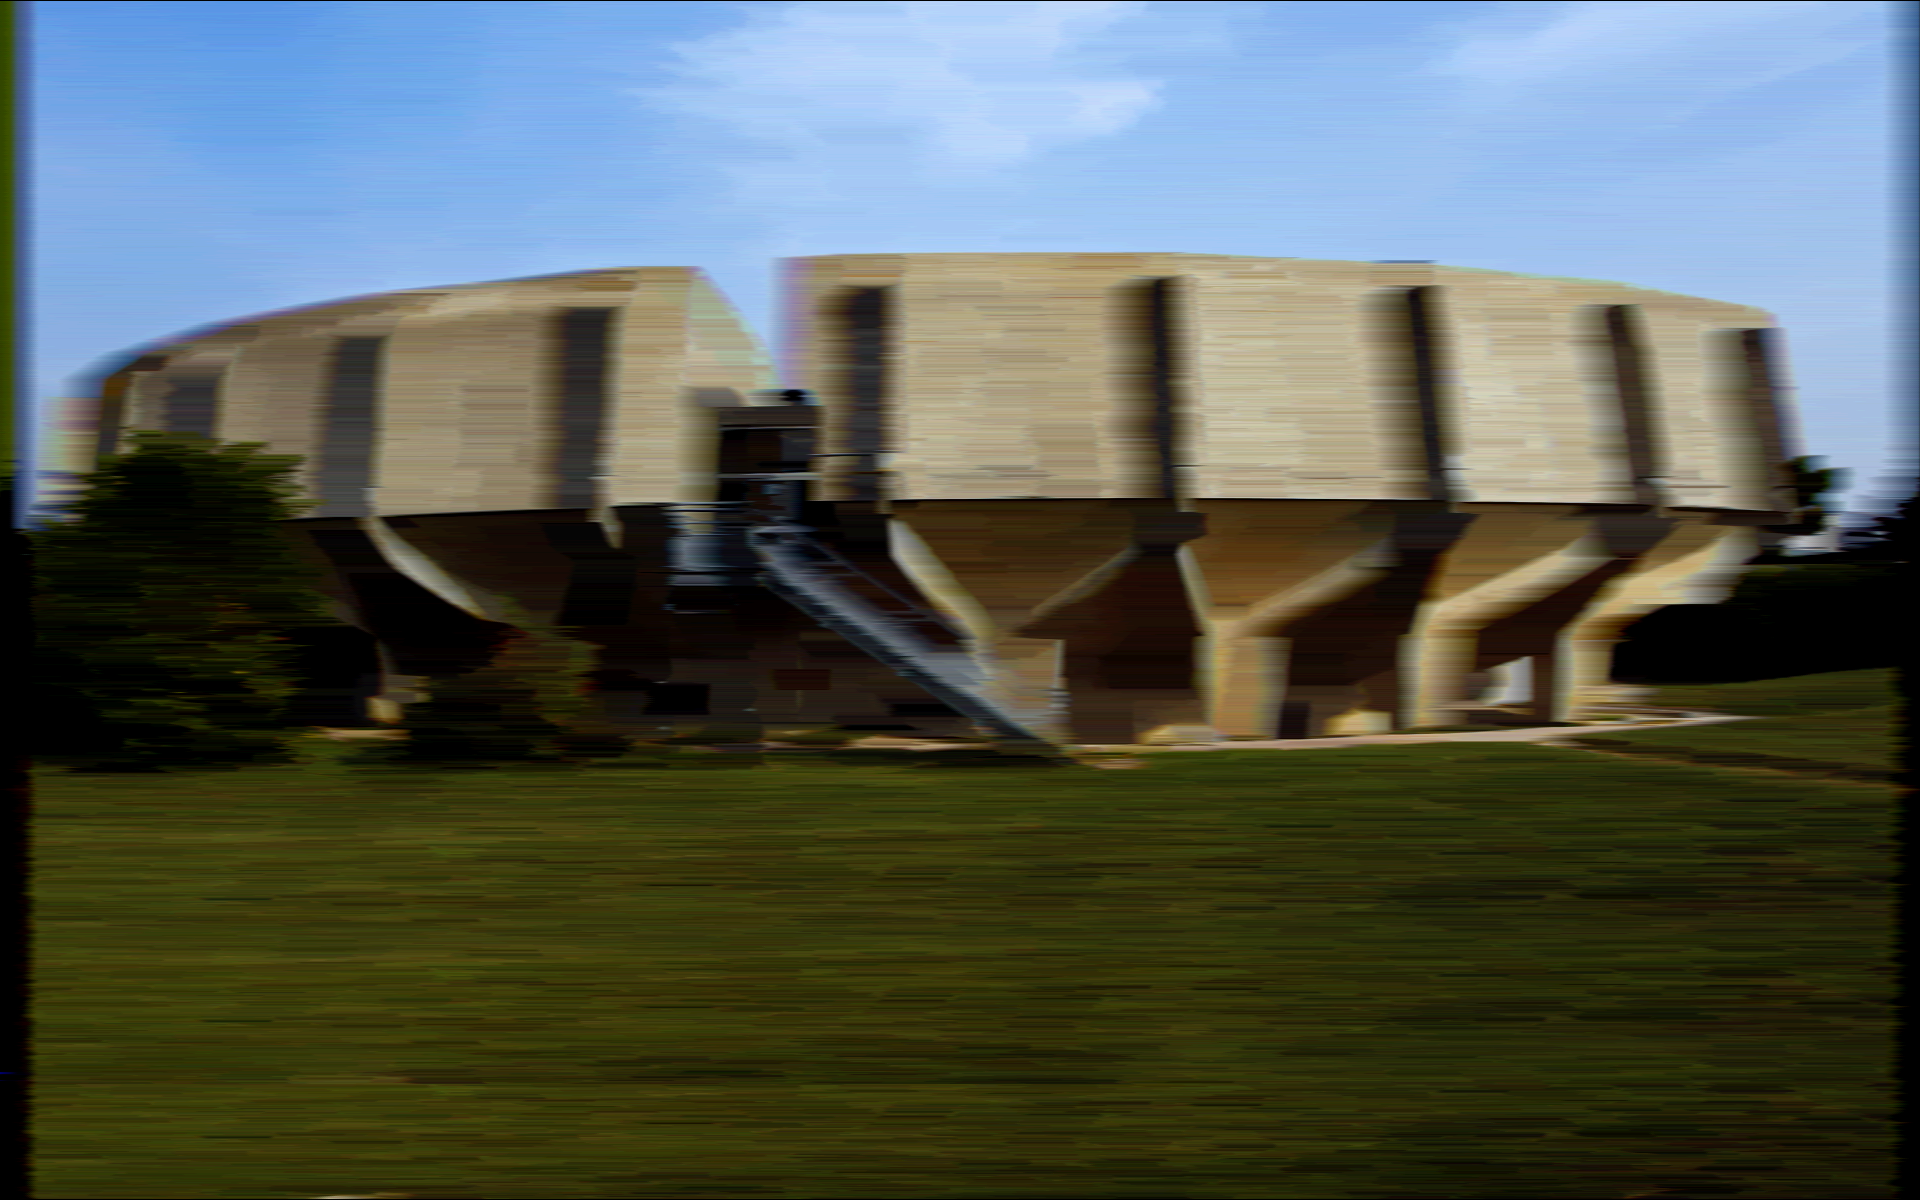
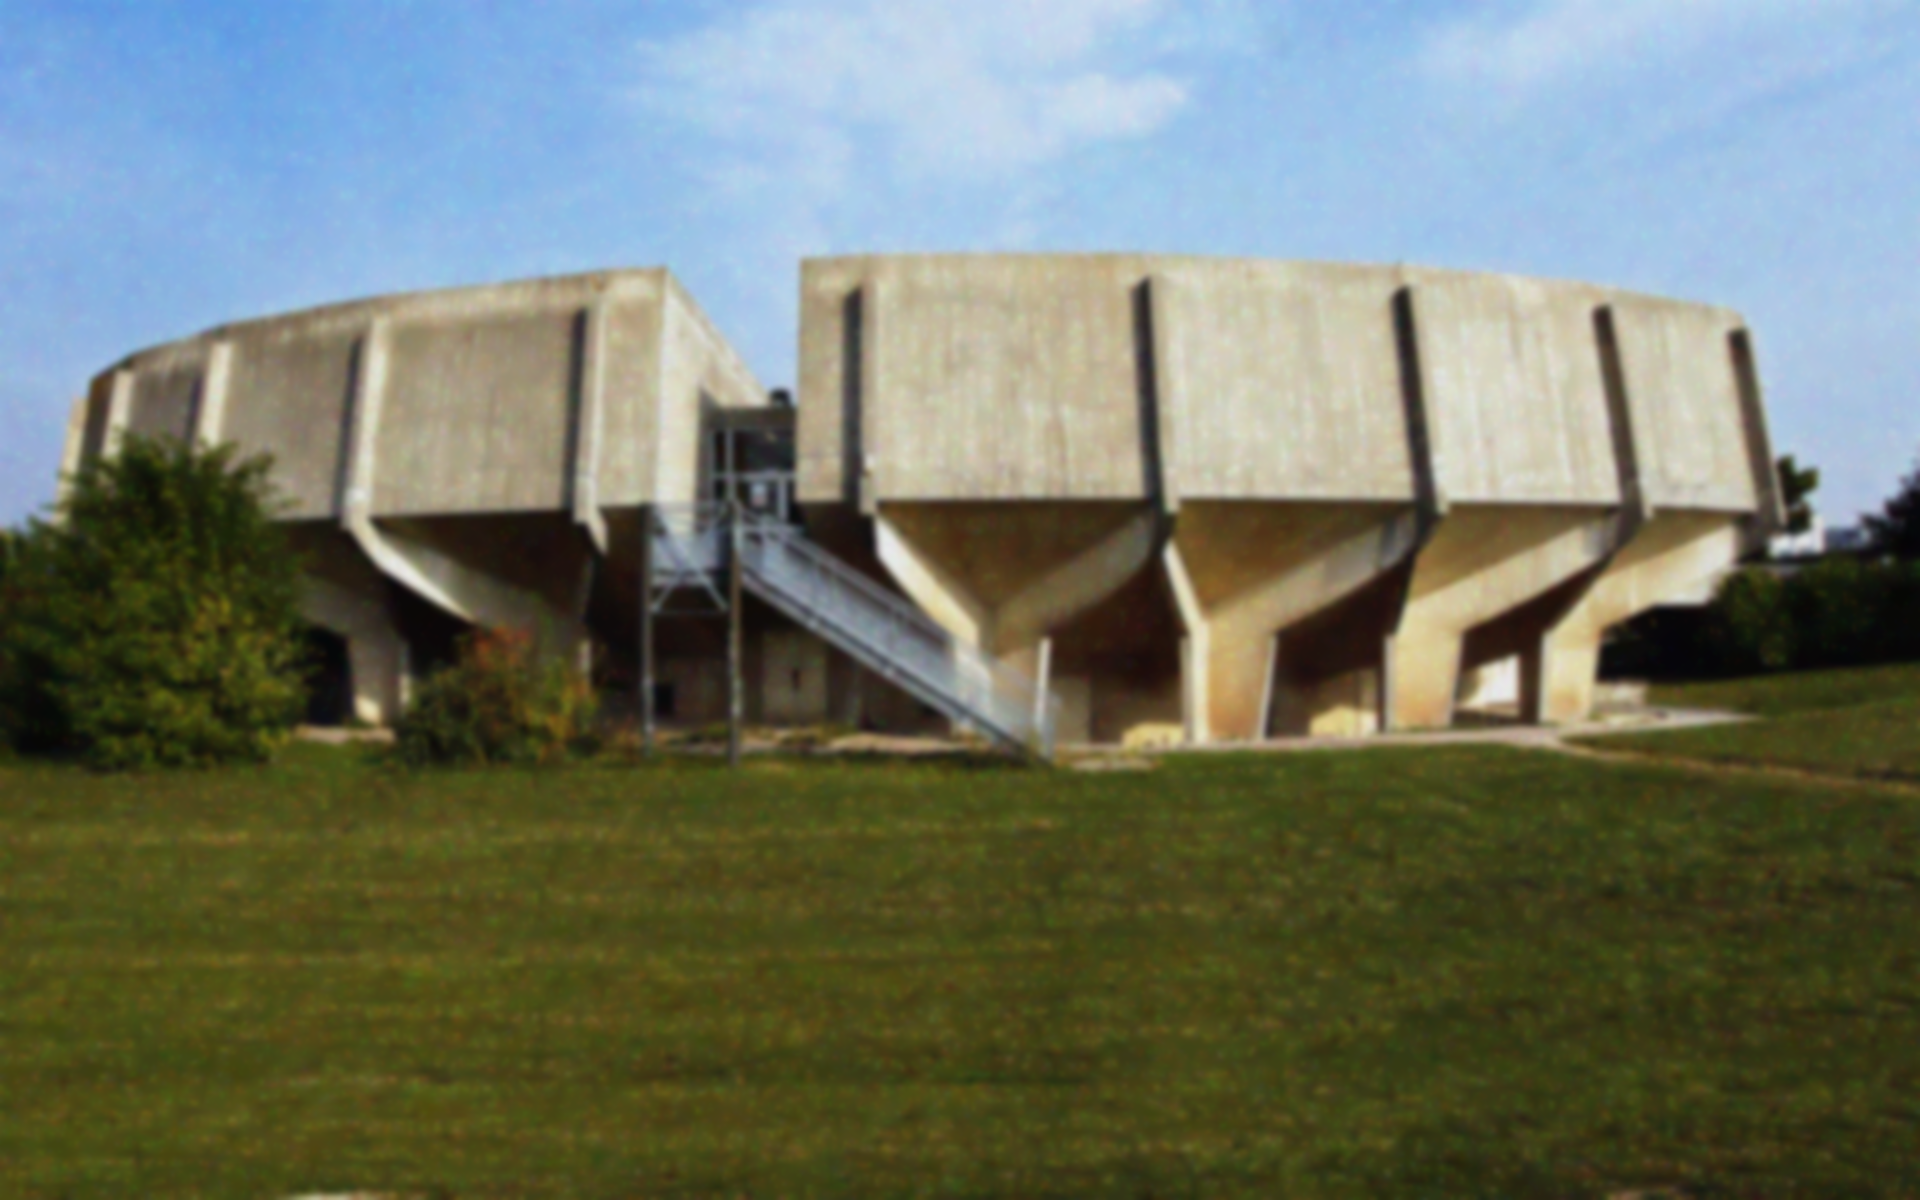
Version finale Kokkos

diff --git a/kokkos/gaussSeidel.cpp b/kokkos/gaussSeidel.cpp
@@ -1,14 +1,7 @@
 #include "gaussSeidel.h"
 
-// #include <opencv2/core/hal/interface.h>
-// #include <opencv2/core/matx.hpp>
-
-inline uchar Clamp(int n) {
-    n = n > 255 ? 255 : n;
-    return n < 0 ? 0 : n;
-}
-
-bool GaussSeidel(ViewMatrixType &img, int rows, int cols) {
+bool GaussSeidel(ViewMatrixType &img, ViewMatrixType &dst, int rows, int cols)
+{
     if (rows == 0 || cols == 0) {
         cout << "[Error]! Input Image Empty!";
         return false;
@@ -27,19 +20,28 @@ bool GaussSeidel(ViewMatrixType &img, int rows, int cols) {
         j = j * 2 + i % 2;
         // Parcours des channels
         for (int c = 0; c < 3; c++) {
-            uchar alpha = 0;
+            unsigned int alpha = 0;
 
-            if (j > 0)
-                alpha += img(i, j - 1, c) * 0.2;  // Ouest
-            alpha += img(i, j, c) * 0.2;          // Centre
-            if (j < cols - 1)
-                alpha += img(i, j + 1, c) * 0.2;  // Est
-            if (i > 0)
-                alpha += img(i, j - 1, c) * 0.2;  // Sud                
-            if (i < rows - 1)
-                alpha += img(i, j - 1, c) * 0.2;  // Nord
+            int count = 1;
+            alpha += img(i, j, c);          // Centre
+            if (j > 0) {
+                alpha += img(i, j - 1, c);  // Ouest
+                count++;
+            }
+            if (j < cols - 1) {
+                alpha += img(i, j + 1, c);  // Est
+                count++;
+            }
+            if (i > 0) {
+                alpha += img(i - 1, j, c);  // Sud                
+                count++;
+            }
+            if (i < rows - 1) {
+                alpha += img(i + 1, j, c);  // Nord
+                count++;
+            }
 
-            img(i, j, c) = alpha;
+            dst(i, j, c) = alpha / count;
         }
     });
 
@@ -48,19 +50,28 @@ bool GaussSeidel(ViewMatrixType &img, int rows, int cols) {
         j = j * 2 + (i + 1) % 2;
         // Parcours des channels
         for (int c = 0; c < 3; c++) {
-            uchar alpha = 0;
+            unsigned int alpha = 0;
 
-            if (j > 0)
-                alpha += img(i, j - 1, c) * 0.2;  // Ouest
-            alpha += img(i, j, c) * 0.2;          // Centre
-            if (j < cols - 1)
-                alpha += img(i, j + 1, c) * 0.2;  // Est
-            if (i > 0)
-                alpha += img(i, j - 1, c) * 0.2;  // Sud                
-            if (i < rows - 1)
-                alpha += img(i, j - 1, c) * 0.2;  // Nord
+            int count = 1;
+            alpha += img(i, j, c);          // Centre
+            if (j > 0) {
+                alpha += dst(i, j - 1, c);  // Ouest
+                count++;
+            }
+            if (j < cols - 1) {
+                alpha += dst(i, j + 1, c);  // Est
+                count++;
+            }
+            if (i > 0) {
+                alpha += dst(i - 1, j, c);  // Sud                
+                count++;
+            }
+            if (i < rows - 1) {
+                alpha += dst(i + 1, j, c);  // Nord
+                count++;
+            }
 
-            img(i, j, c) = alpha;
+            dst(i, j, c) = alpha / count;
         }
     });
 

diff --git a/kokkos/main.cpp b/kokkos/main.cpp
@@ -41,11 +41,11 @@ int main(int argc, char **argv) {
 
         // Mémoire device
         ViewMatrixType A("A", rows, cols);
-        // ViewMatrixType B("B", rows, cols);
+        ViewMatrixType B("B", rows, cols);
 
         // Mirroir host
         ViewMatrixType::HostMirror h_A = Kokkos::create_mirror_view( A );
-        // ViewMatrixType::HostMirror h_B = Kokkos::create_mirror_view( B );
+        ViewMatrixType::HostMirror h_B = Kokkos::create_mirror_view( B );
 
         // Copie de l'image sur GPU
         for (int i = 0; i < rows; i++) {
@@ -58,36 +58,36 @@ int main(int argc, char **argv) {
         }
         Kokkos::deep_copy( A, h_A );
 
-        // Traitement
+        // // Traitement
         double elapsed = 0.0;
         {
             Kokkos::Timer timer;
             for (int i = 0; i < NOISE_ITER; ++i) {
-                GaussSeidel(A, rows, cols);
-                // if (i < (NOISE_ITER - 1)) { // Swap buffer
-                //     swap(A, B);
-                // }
+                GaussSeidel(A, B, rows, cols);
+                if (i < (NOISE_ITER - 1)) { // Swap buffers
+                    swap(A, B);
+                }
             }
             elapsed = timer.seconds();
         }
 
         // Récupération de l'image GPU
-        Kokkos::deep_copy( h_A, A );
+        Kokkos::deep_copy( h_B, B );
         for (int i = 0; i < rows; i++) {
             for (int j = 0; j < cols; j++) {
                 Vec3b &pixel = mColorGaussSeidel.at<Vec3b>(i, j);
                 for (int c = 0; c < 3; c++) {
-                    pixel.val[c] = h_A(i, j, c);
+                    pixel.val[c] = h_B(i, j, c);
                 }
             }
         }
         cout << "Time: " << elapsed << "s" << endl;
+        fprintf(stderr, "%d, %d, %d, %f \n", rows, cols, NOISE_ITER, elapsed);
     }
     Kokkos::finalize();
 
 
-    fprintf(stdout, "Writting the output image of size %dx%d...\n", img.rows,
-            img.cols);
+    printf("Writting the output image of size %dx%d...\n", img.rows, img.cols);
     imwrite("res/gauss_seidel.png", mColorGaussSeidel);
 
     return 0;

diff --git a/kokkos/gaussSeidel.h b/kokkos/gaussSeidel.h
@@ -12,6 +12,6 @@ using namespace std;
 using ExecSpace = Kokkos::Cuda;
 using ViewMatrixType = Kokkos::View<uchar**[3], ExecSpace>;
 
-bool GaussSeidel(ViewMatrixType &img, int rows, int cols);
+bool GaussSeidel(ViewMatrixType &img, ViewMatrixType &dst, int rows, int cols);
 
 #endif

diff --git a/src/main.cpp b/src/main.cpp
@@ -11,7 +11,7 @@
 using namespace cv;
 using namespace std;
 
-#define NOISE_ITER 15
+#define NOISE_ITER 50
 
 int main(int argc, char **argv) {
     CommandLineParser parser(argc, argv,
